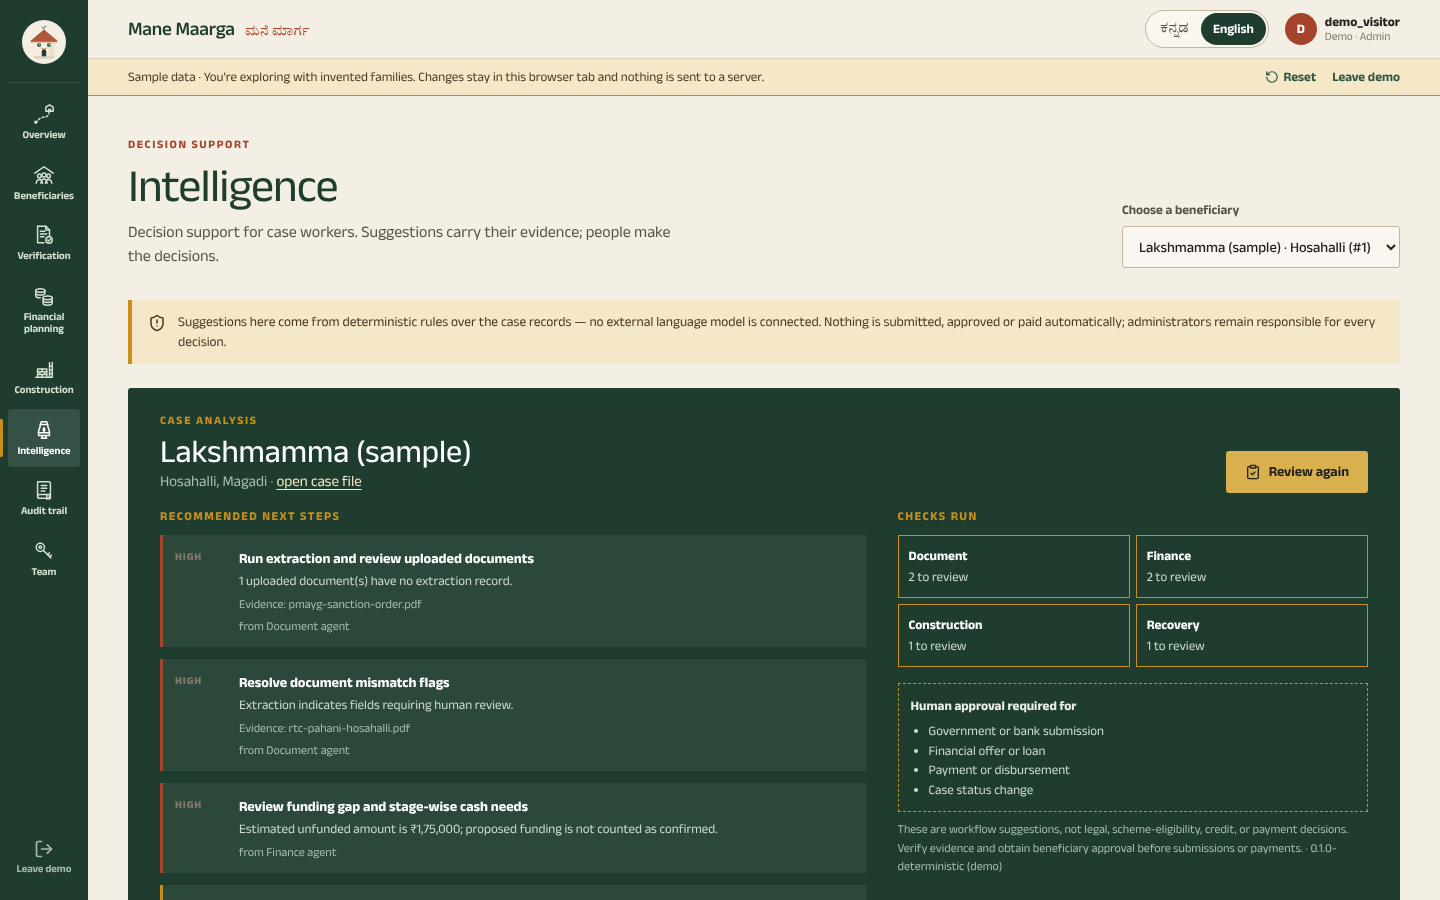
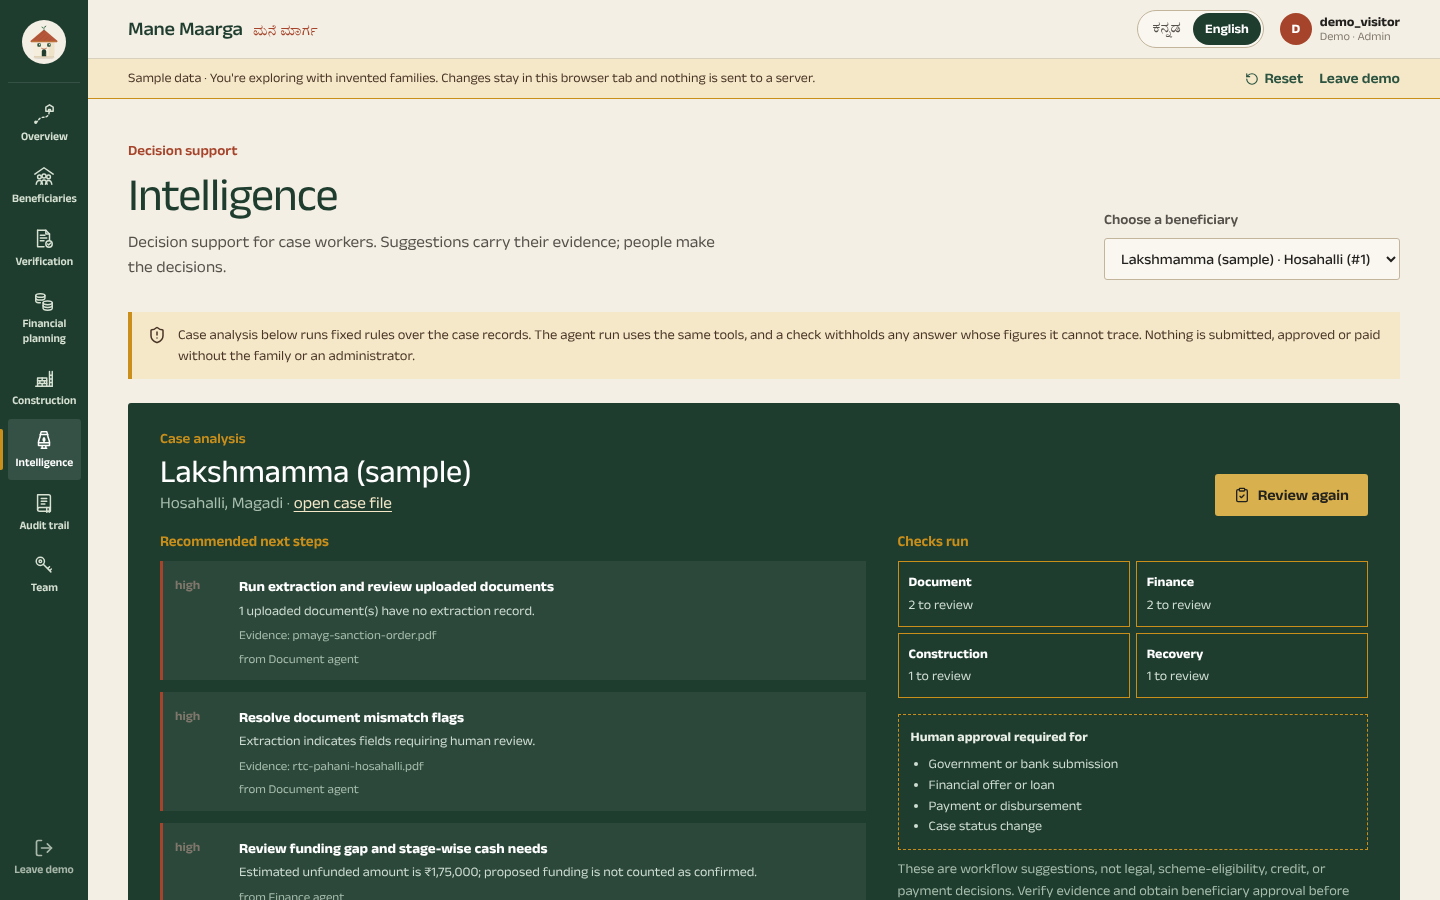
docs: README showcase of what is unique, new screenshots; sentence-case labels and current Intelligence notice

diff --git a/frontend/src/lib/i18n.tsx b/frontend/src/lib/i18n.tsx
@@ -48,7 +48,7 @@ const en = {
   'task.open': 'Open', 'task.in_progress': 'In progress', 'task.blocked': 'Blocked', 'task.completed': 'Completed', 'task.cancelled': 'Cancelled',
   'banner.demo': 'Sample data · You\'re exploring with invented families. Changes stay in this browser tab and nothing is sent to a server.',
   'banner.reset': 'Reset', 'banner.leave': 'Leave demo',
-  'banner.intel': 'Suggestions here come from deterministic rules over the case records — no external language model is connected. Nothing is submitted, approved or paid automatically; administrators remain responsible for every decision.',
+  'banner.intel': 'Case analysis below runs fixed rules over the case records. The agent run uses the same tools, and a check withholds any answer whose figures it cannot trace. Nothing is submitted, approved or paid without the family or an administrator.',
 
   'list.title': 'Beneficiaries', 'list.lead': 'Every case, its stage and what it is waiting on.',
   'list.searchPh': 'Search name, village or taluk', 'list.compact': 'Compact', 'list.detailed': 'Detailed', 'list.byVillage': 'By village',
@@ -116,7 +116,7 @@ const kn: Partial<Record<Key, string>> = {
   'task.open': 'ತೆರೆದಿದೆ', 'task.in_progress': 'ನಡೆಯುತ್ತಿದೆ', 'task.blocked': 'ತಡೆ', 'task.completed': 'ಪೂರ್ಣ', 'task.cancelled': 'ರದ್ದು',
   'banner.demo': 'ಮಾದರಿ ದತ್ತಾಂಶ · ನೀವು ಕಲ್ಪಿತ ಕುಟುಂಬಗಳೊಂದಿಗೆ ನೋಡುತ್ತಿದ್ದೀರಿ. ಬದಲಾವಣೆಗಳು ಈ ಬ್ರೌಸರ್ ಟ್ಯಾಬ್ನಲ್ಲೇ ಉಳಿಯುತ್ತವೆ; ಯಾವುದೂ ಸರ್ವರ್ಗೆ ಹೋಗುವುದಿಲ್ಲ.',
   'banner.reset': 'ಮರುಹೊಂದಿಸಿ', 'banner.leave': 'ಡೆಮೊದಿಂದ ಹೊರಬನ್ನಿ',
-  'banner.intel': 'ಇಲ್ಲಿನ ಸಲಹೆಗಳು ಕೇಸ್ ದಾಖಲೆಗಳ ಮೇಲಿನ ನಿಯಮಗಳಿಂದ ಬರುತ್ತವೆ. ಯಾವುದನ್ನೂ ಸ್ವಯಂಚಾಲಿತವಾಗಿ ಸಲ್ಲಿಸಲಾಗುವುದಿಲ್ಲ, ಅನುಮೋದಿಸಲಾಗುವುದಿಲ್ಲ ಅಥವಾ ಪಾವತಿಸಲಾಗುವುದಿಲ್ಲ; ಪ್ರತಿ ನಿರ್ಧಾರಕ್ಕೆ ಅಧಿಕಾರಿಗಳೇ ಹೊಣೆ.',
+  'banner.intel': 'ಕೆಳಗಿನ ಕಡತ ವಿಶ್ಲೇಷಣೆ ನಿಗದಿತ ನಿಯಮಗಳಿಂದ ನಡೆಯುತ್ತದೆ. ಏಜೆಂಟ್ ಅದೇ ಸಾಧನಗಳನ್ನು ಬಳಸುತ್ತದೆ; ಆಧಾರ ಸಿಗದ ಅಂಕಿ ಇರುವ ಉತ್ತರವನ್ನು ತಡೆಹಿಡಿಯಲಾಗುತ್ತದೆ. ಕುಟುಂಬ ಅಥವಾ ನಿರ್ವಾಹಕರ ಒಪ್ಪಿಗೆ ಇಲ್ಲದೆ ಏನನ್ನೂ ಸಲ್ಲಿಸುವುದಿಲ್ಲ, ಅನುಮೋದಿಸುವುದಿಲ್ಲ ಅಥವಾ ಪಾವತಿಸುವುದಿಲ್ಲ.',
   'list.title': 'ಫಲಾನುಭವಿಗಳು', 'list.lead': 'ಪ್ರತಿ ಕೇಸ್, ಅದರ ಹಂತ ಮತ್ತು ಅದು ಯಾವುದಕ್ಕಾಗಿ ಕಾಯುತ್ತಿದೆ.',
   'list.searchPh': 'ಹೆಸರು, ಗ್ರಾಮ ಅಥವಾ ತಾಲ್ಲೂಕು ಹುಡುಕಿ', 'list.compact': 'ಸಂಕ್ಷಿಪ್ತ', 'list.detailed': 'ವಿವರವಾದ', 'list.byVillage': 'ಗ್ರಾಮವಾರು',
   'list.empty': 'ಪ್ರತಿ ಮನೆಯೂ ಮೊದಲ ಹೆಜ್ಜೆಯಿಂದ ಆರಂಭ.', 'list.emptySub': 'ಮೊದಲ ಕುಟುಂಬವನ್ನು ಸೇರಿಸಿ ಅವರ ಪಯಣ ಆರಂಭಿಸಿ.',

diff --git a/frontend/src/style.css b/frontend/src/style.css
@@ -578,7 +578,7 @@ code { font-family: var(--font-mono); font-size: .88em; background: var(--sunken
 .preview-body .skeleton { width: 70%; }
 .desk-review { display: grid; gap: var(--s3); }
 .review-block { background: var(--paper); border: 1px solid var(--line); padding: var(--s4); display: grid; gap: var(--s3); }
-.review-block h3 { font-size: 13px; font-weight: 800; letter-spacing: .08em; text-transform: uppercase; color: var(--ink-2); }
+.review-block h3 { font-size: 15px; font-weight: 640; color: var(--ink-2); }
 .rb-head { display: flex; justify-content: space-between; align-items: center; gap: var(--s2); flex-wrap: wrap; }
 .kv { margin: 0; display: grid; }
 .kv > div { display: grid; grid-template-columns: 110px minmax(0, 1fr); gap: var(--s3); padding: 7px 0; border-bottom: 1px dashed var(--line); font-size: 14px; }
@@ -653,7 +653,7 @@ code { font-family: var(--font-mono); font-size: .88em; background: var(--sunken
 .analysis .btn.primary { background: var(--mustard); color: var(--ink); }
 .analysis .btn.primary:hover:not(:disabled) { background: #D8B04D; }
 .analysis-grid { display: grid; grid-template-columns: minmax(0, 1.5fr) minmax(0, 1fr); gap: var(--s6); }
-.analysis h3 { font-size: 12px; letter-spacing: .12em; text-transform: uppercase; color: var(--mustard); margin-bottom: var(--s3); }
+.analysis h3 { font-size: 15px; font-weight: 620; color: var(--mustard); margin-bottom: var(--s3); }
 .analysis .insight-list li { background: rgba(255,255,255,.06); color: #fff; }
 .analysis .insight-list p { color: #CFDDD2; } .analysis .insight-list small { color: #A9BFAE; }
 .check-grid { list-style: none; margin: 0 0 var(--s4); padding: 0; display: grid; grid-template-columns: 1fr 1fr; gap: 6px; }

diff --git a/README.md b/README.md
@@ -50,6 +50,22 @@ Under PMAY-G, a family in the plains receives ₹1.20 lakh, released in instalme
 
 Every rule and rupee comes from a dated, cited rule pack. [PROBLEM.md](PROBLEM.md) maps each part of the problem to its evidence, the feature that answers it, and where to see it.
 
+## What only Mane Maarga does
+
+| | What it does | Where to see it |
+|---|---|---|
+| **Money ladder** | Shows the cash a family must find before each instalment arrives, kept apart from the gap no scheme covers. | Financial planning |
+| **Rules with receipts** | Every amount and eligibility rule has a clause ID, Kannada and English text, and its government source. Missing facts give "needs information", never a guess. | Every amount in the app |
+| **The family says yes** | Payments, loans, submissions and document sharing wait for the family's one-time code, on a Kannada page that says what, how much and to whom. | Case file → Approvals |
+| **No invented numbers** | The assistant picks tools; code does the arithmetic. An answer with a rupee figure it cannot trace is withheld. | Intelligence → Run the agent |
+| **A Kannada voice** | Intake questions in everyday spoken Kannada, recorded in a warm voice; families can answer by talking. | Intelligence → Conversational intake |
+| **Red-pen document checks** | Land records are compared with the case field by field; a reviewer decides on every mismatch. | Verification |
+
+<div align="center">
+<img src="docs/assets/screenshots/landing-different.png" width="880" alt="The landing page section What only Mane Maarga does, showing the money ladder with stage costs and the money short before each instalment" />
+<br /><sub>The landing page shows each of these as a working piece of the product.</sub>
+</div>
+
 ## Screenshots
 
 <table>

diff --git a/CHANGELOG.md b/CHANGELOG.md
@@ -2,6 +2,11 @@
 
 Dates are build days of the Mane Maarga Master Plan v2. Each line names what changed and how it was checked.
 
+## Site · 26 Nov 2026 · Less crowded, and the unique parts up front
+- Landing redesigned: the Kannada line leads the hero; a new "What only Mane Maarga does" section gives each of six ideas its own row with a real piece of the product (computed money ladder, a cited clause, the family's OTP screen, a blocked invented figure, the recorded Kannada voice, a red-pen RTC mismatch). The journey is one row of growing houses; safeguards are "What it will never do".
+- App-wide: Anek's width axis at 106%, 16px base text, larger labels and small text, no all-caps labels, roomier panels and gaps.
+- Intelligence notice updated now that the agent runtime exists. README screenshots retaken.
+
 ## Day 5 · 26 Nov 2026 · The approval gate, for real
 - `policies/gated_actions.yaml`: submit to portal, request a tranche, accept a loan, pay any amount and share documents need the family; a case-status change needs an administrator.
 - Approval requests carry a payload hash and plain summaries in Kannada and English with rupees and recipient. `app/approvals/executor.py` is the only place gated actions run: it re-hashes the payload, needs an approved and unexpired request, and claims it with one conditional update so it runs exactly once. Every refusal is audited.
